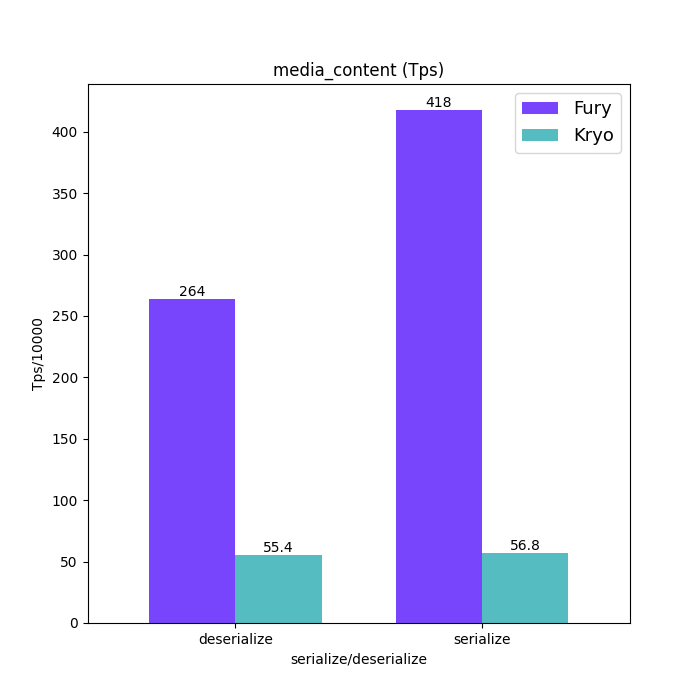
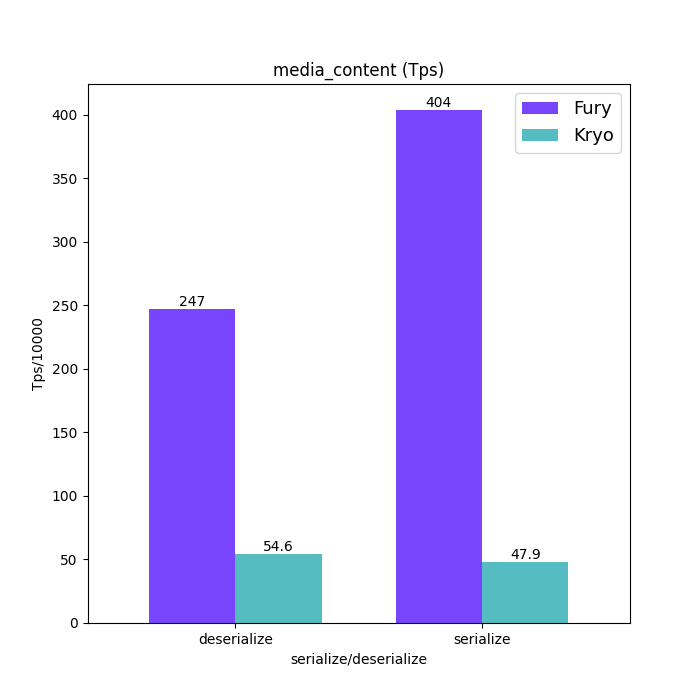
cache kryo input (#4)
* cache kryo input

* update kryo benchmark result

diff --git a/src/main/java/com/github/chaokunyang/fury/benchmark/KryoBenchmark.java b/src/main/java/com/github/chaokunyang/fury/benchmark/KryoBenchmark.java
@@ -21,6 +21,7 @@ public class KryoBenchmark {
   private static byte[] kryoMediaContentBytes;
   private static byte[] kryoStructBytes;
   private static Output output = new Output(1024, -1);
+  private static Input input = new Input();
 
   static {
     // kryo.setRegistrationRequired(false);
@@ -53,7 +54,8 @@ public class KryoBenchmark {
 
   @Benchmark
   public Object kryoDeserializeMediaContent() throws Exception {
-    return kryo.readObject(new Input(kryoMediaContentBytes), MediaContent.class);
+    input.setBuffer(kryoMediaContentBytes);
+    return kryo.readObject(input, MediaContent.class);
   }
 
   @Benchmark
@@ -65,7 +67,8 @@ public class KryoBenchmark {
 
   @Benchmark
   public Object kryoDeserializeStruct() throws Exception {
-    return kryo.readObject(new Input(kryoStructBytes), Struct.class);
+    input.setBuffer(kryoStructBytes);
+    return kryo.readObject(input, Struct.class);
   }
 
 

diff --git a/README.md b/README.md
@@ -54,14 +54,15 @@ microstream structBytes size 120
 ```
 Fury is :
 ```java
-Benchmark                                                 Mode  Cnt         Score          Error  Units
-MicrostreamBenchmark.furyDeserializeMediaContent         thrpt    3   2082751.515 ±  2638613.695  ops/s
-MicrostreamBenchmark.furyDeserializeStruct               thrpt    3  10334292.992 ± 10542478.626  ops/s
-MicrostreamBenchmark.furySerializeMediaContent           thrpt    3   2898943.216 ±   946978.784  ops/s
-MicrostreamBenchmark.furySerializeStruct                 thrpt    3  13980885.316 ± 13424528.901  ops/s
-MicrostreamBenchmark.microstreamDeserializeMediaContent  thrpt    3     76354.367 ±   231329.651  ops/s
-MicrostreamBenchmark.microstreamSerializeMediaContent    thrpt    3     66316.198 ±   729572.587  ops/s
-MicrostreamBenchmark.microstreamSerializeStruct          thrpt    3    233374.717 ±   732378.317  ops/s
+Benchmark                                   Mode  Cnt         Score         Error  Units
+KryoBenchmark.furyDeserializeMediaContent  thrpt    9   2468765.648 ±  314266.100  ops/s
+KryoBenchmark.furyDeserializeStruct        thrpt    9  20031536.933 ± 1893069.982  ops/s
+KryoBenchmark.furySerializeMediaContent    thrpt    9   4041446.580 ±  402177.778  ops/s
+KryoBenchmark.furySerializeStruct          thrpt    9  25475238.500 ±  920132.134  ops/s
+KryoBenchmark.kryoDeserializeMediaContent  thrpt    9    545891.524 ±   19581.938  ops/s
+KryoBenchmark.kryoDeserializeStruct        thrpt    9   2496417.446 ±   76754.451  ops/s
+KryoBenchmark.kryoSerializeMediaContent    thrpt    9    478720.501 ±   69891.951  ops/s
+KryoBenchmark.kryoSerializeStruct          thrpt    9   1942266.459 ±   63863.902  ops/s
 ```
 
 ## Fury vs Kryo in JDK17:
